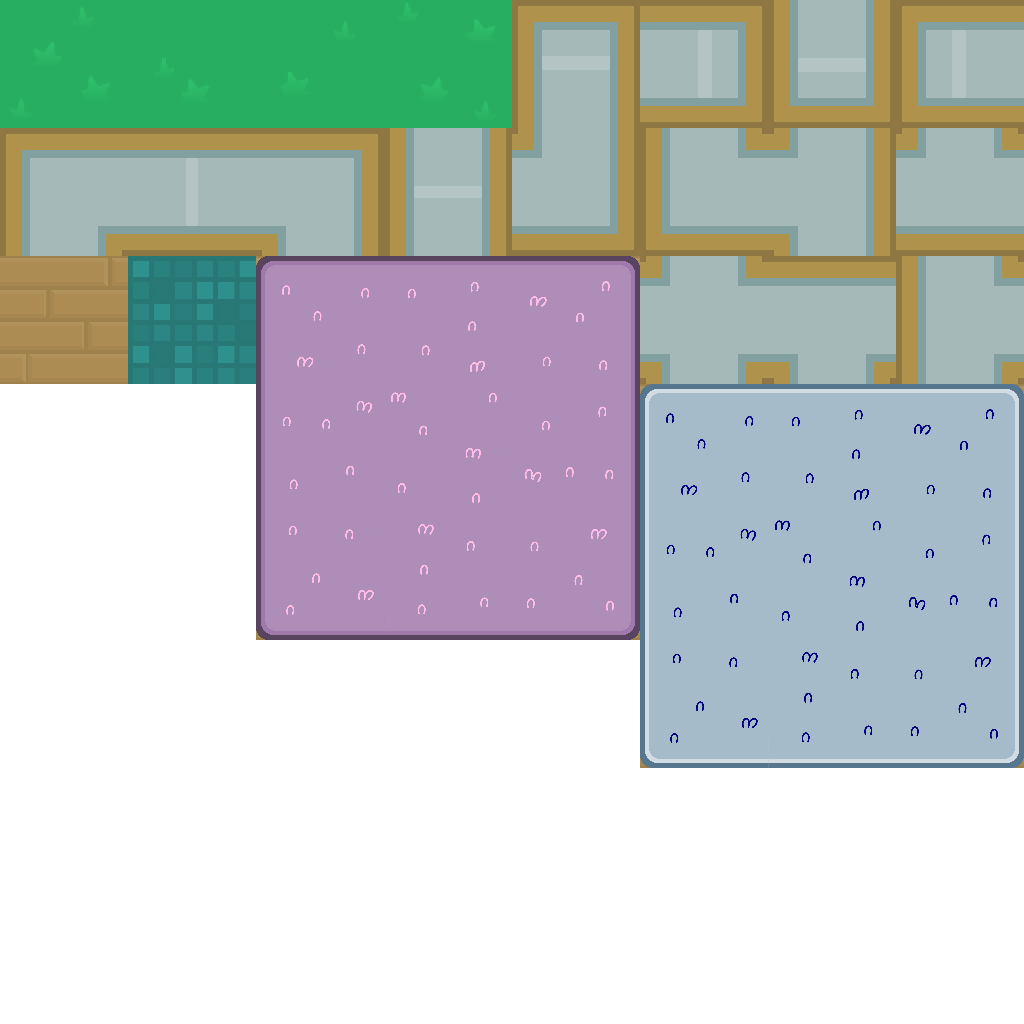
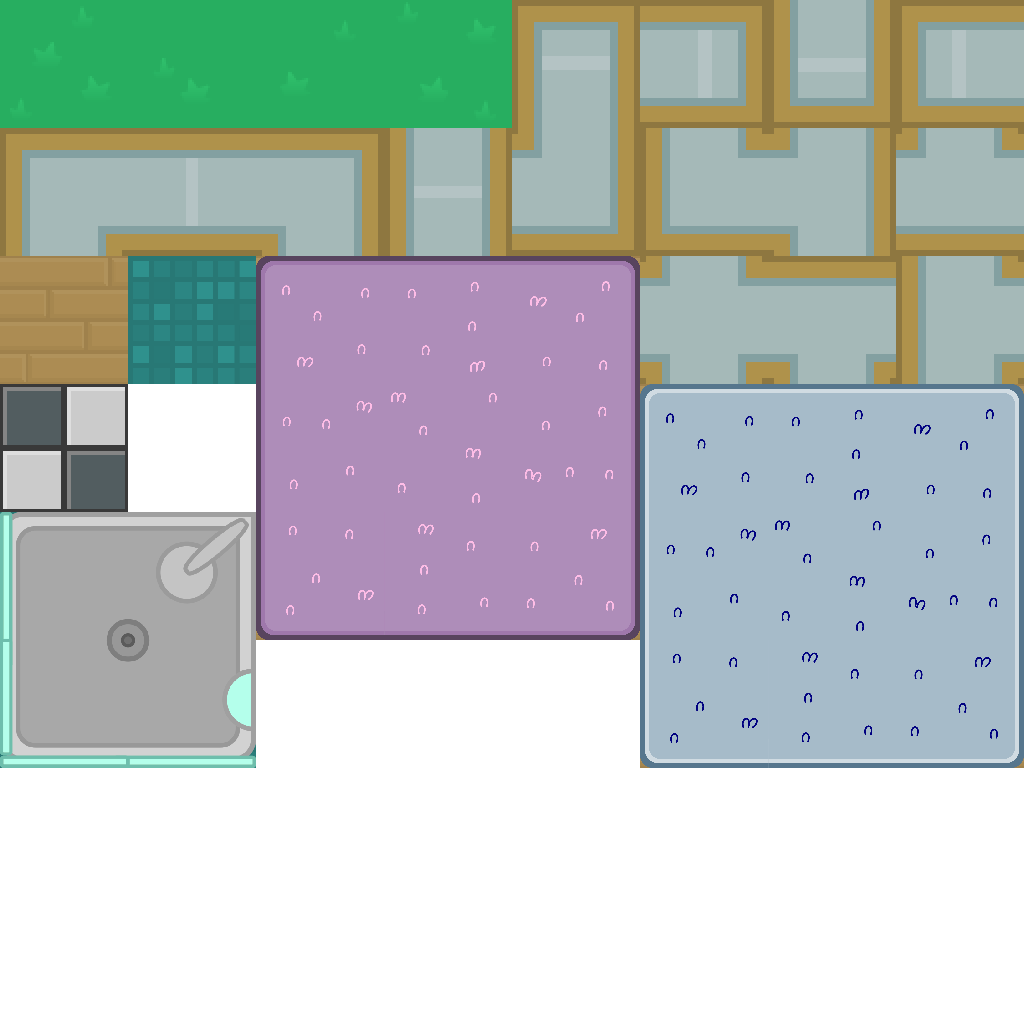
Added kitchen tiles & the shower

Changed region(s): [[0.0, 0.375, 0.25, 0.75]]

diff --git a/src/core/map/block/SimpleBlock.h b/src/core/map/block/SimpleBlock.h
@@ -15,7 +15,7 @@ public:
         shape.SetAsBox(0.5, 0.5);
         b2FixtureDef fixDef;
         fixDef.shape = &shape;
-        fixDef.isSensor = texPos < 4 || texPos >= 16;
+        fixDef.isSensor = (texPos < 4 || texPos >= 16) && texPos != 32 && texPos != 33 && texPos != 40 && texPos != 41;
         body->CreateFixture(&fixDef);
     };
 
